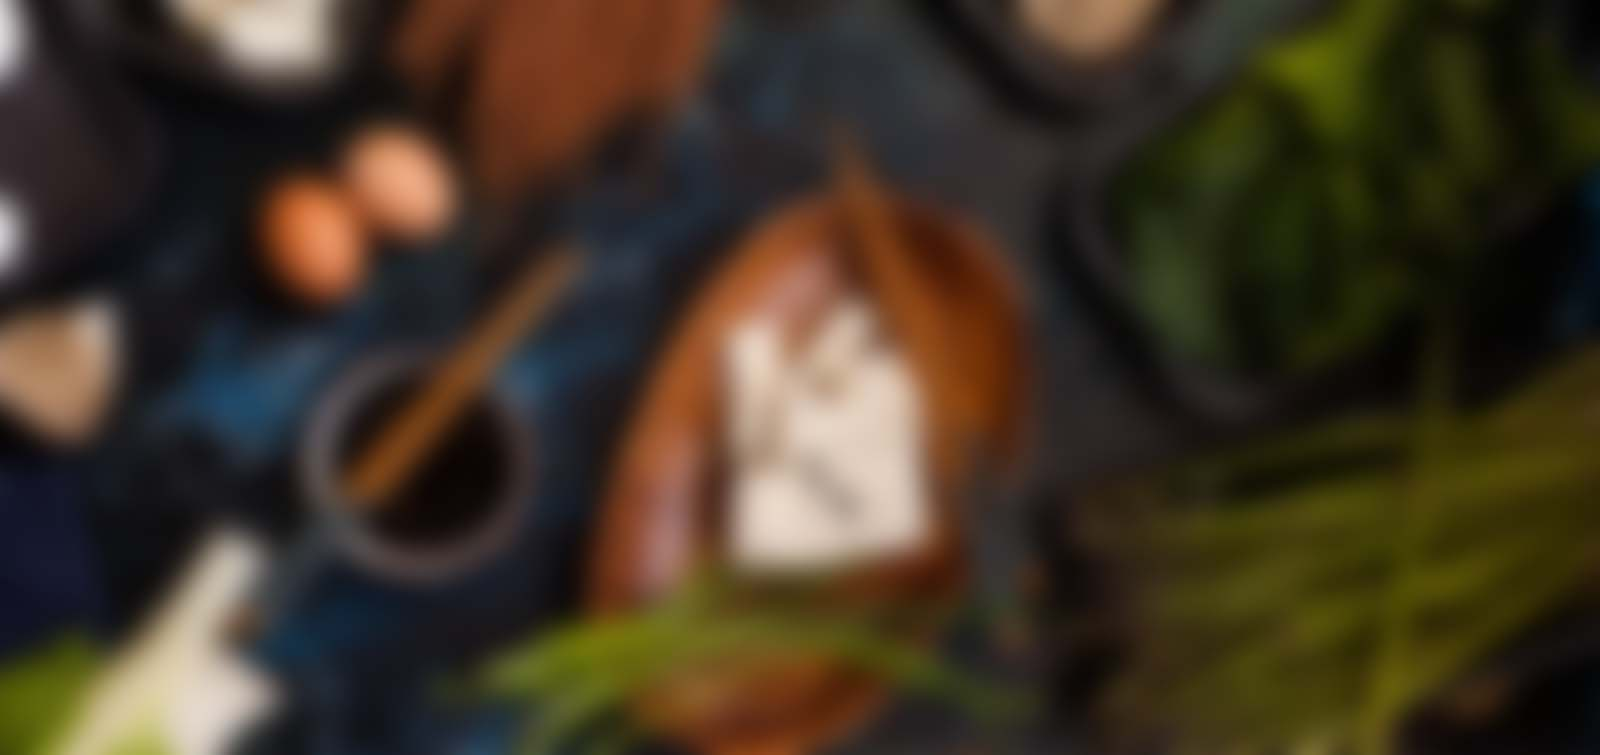
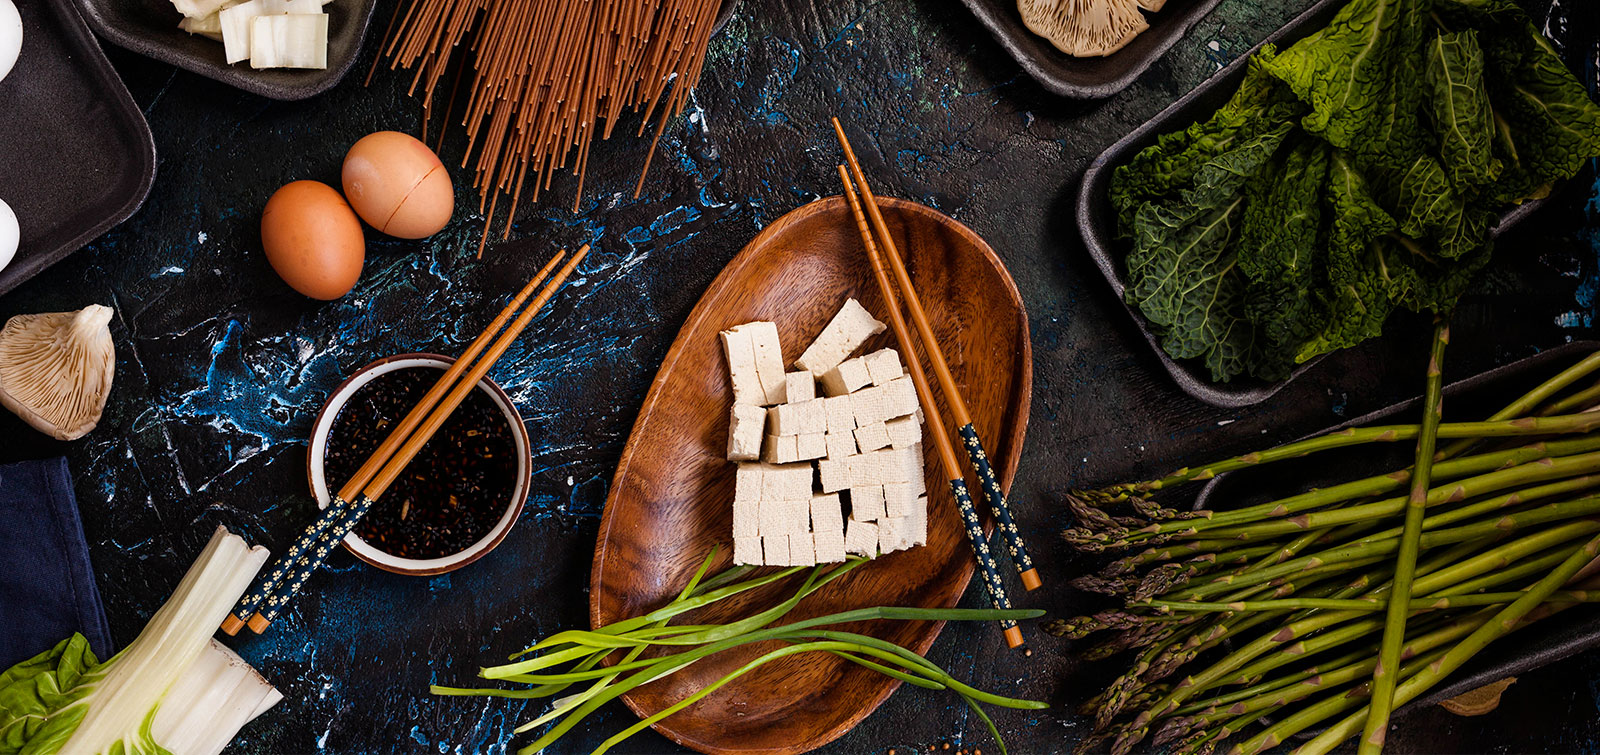
feat: implement user authentication and Google OAuth login integration

diff --git a/restaurant-front-end-after/src/pages/Login.tsx b/restaurant-front-end-after/src/pages/Login.tsx
@@ -103,7 +103,7 @@ export const Login: React.FC = () => {
 
   const handleGoogleLogin = () => {
     // Redirects to backend Socialite route which opens official Google account chooser window
-    const apiBaseUrl = import.meta.env.VITE_API_BASE_URL || 'http://${import.meta.env.VITE_API_BASE_URL}/';
+    const apiBaseUrl = import.meta.env.VITE_API_BASE_URL || 'http://127.0.0.1:8000/';
     const cleanBaseUrl = apiBaseUrl.endsWith('/') ? apiBaseUrl : `${apiBaseUrl}/`;
     window.location.href = `${cleanBaseUrl}api/auth/google`;
   };

diff --git a/restaurant-front-end-after/src/pages/Profile.tsx b/restaurant-front-end-after/src/pages/Profile.tsx
@@ -14,7 +14,7 @@ export const getAvatarUrl = (avatarPath?: string | null): string | null => {
   ) {
     return avatarPath;
   }
-  const apiBaseUrl = import.meta.env.VITE_API_BASE_URL || 'http://${import.meta.env.VITE_API_BASE_URL}/';
+  const apiBaseUrl = import.meta.env.VITE_API_BASE_URL || 'http://127.0.0.1:8000/';
   const cleanBase = apiBaseUrl.endsWith('/') ? apiBaseUrl : `${apiBaseUrl}/`;
   const cleanPath = avatarPath.startsWith('/') ? avatarPath.substring(1) : avatarPath;
 

diff --git a/restaurant-front-end-after/src/context/AuthContext.tsx b/restaurant-front-end-after/src/context/AuthContext.tsx
@@ -54,7 +54,7 @@ export const AuthProvider: React.FC<{ children: React.ReactNode }> = ({ children
   };
 
   const logout = async () => {
-    const apiBaseUrl = import.meta.env.VITE_API_BASE_URL || 'http://${import.meta.env.VITE_API_BASE_URL}/';
+    const apiBaseUrl = import.meta.env.VITE_API_BASE_URL || 'http://127.0.0.1:8000/';
     try {
       if (token) {
         await fetch(`${apiBaseUrl}api/logout`, {

diff --git a/restaurant-front-end-after/src/services/api.ts b/restaurant-front-end-after/src/services/api.ts
@@ -1,7 +1,7 @@
 import axios from 'axios';
 
 const api = axios.create({
-  baseURL: import.meta.env.VITE_API_BASE_URL || 'http://${import.meta.env.VITE_API_BASE_URL}/',
+  baseURL: import.meta.env.VITE_API_BASE_URL || 'http://127.0.0.1:8000/',
   headers: {
     'Content-Type': 'application/json',
     'Accept': 'application/json',

diff --git a/restaurant-front-end-after/public/assets/css/custom.css b/restaurant-front-end-after/public/assets/css/custom.css
@@ -5,7 +5,7 @@
 \*------------------------------------*/
 .login-section {
     min-height: 100vh;
-    background-image: url('../images/background/2.jpg');
+    background-image: url('../images/background/1.jpg');
     background-size: cover;
     background-position: center;
     background-attachment: fixed;

diff --git a/res-web/routes/api.php b/res-web/routes/api.php
@@ -29,6 +29,7 @@ Route::prefix('user')->group(function () {
 Route::get('/auth/google', [GoogleController::class, 'redirectToGoogle']);
 Route::get('/auth/google/callback', [GoogleController::class, 'handleGoogleCallback']);
 Route::post('/auth/google', [GoogleController::class, 'handleGoogleLogin']);
+
 Route::middleware('auth:sanctum')->group(function () {
 
     Route::post('/logout', [AuthController::class, 'logout']);
